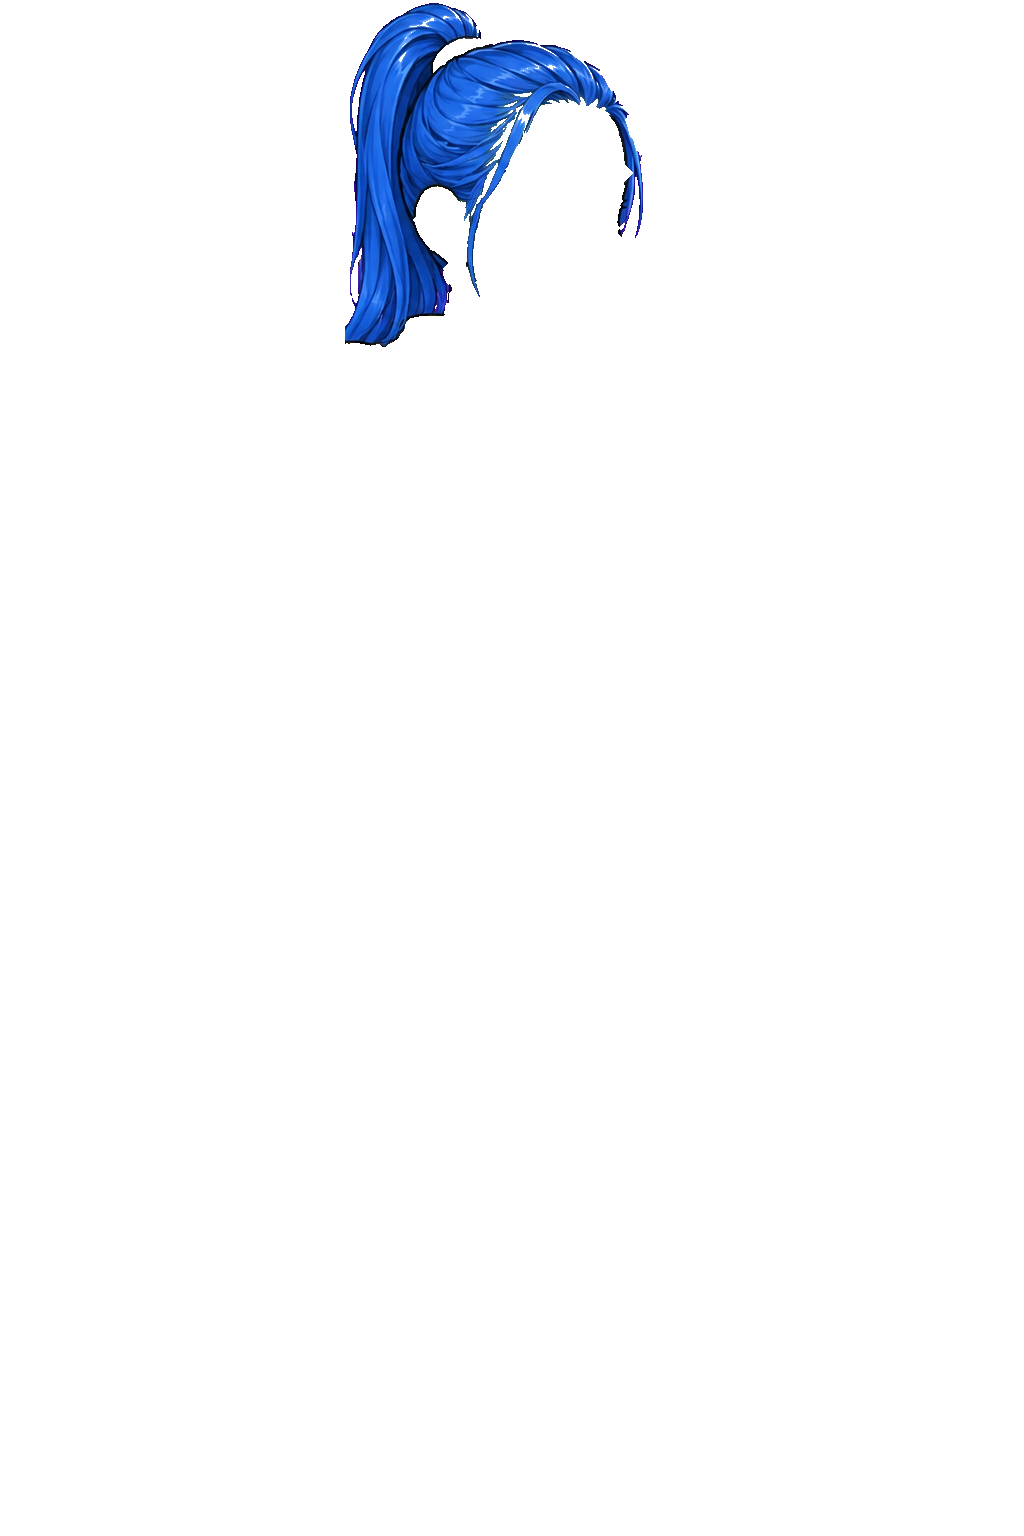
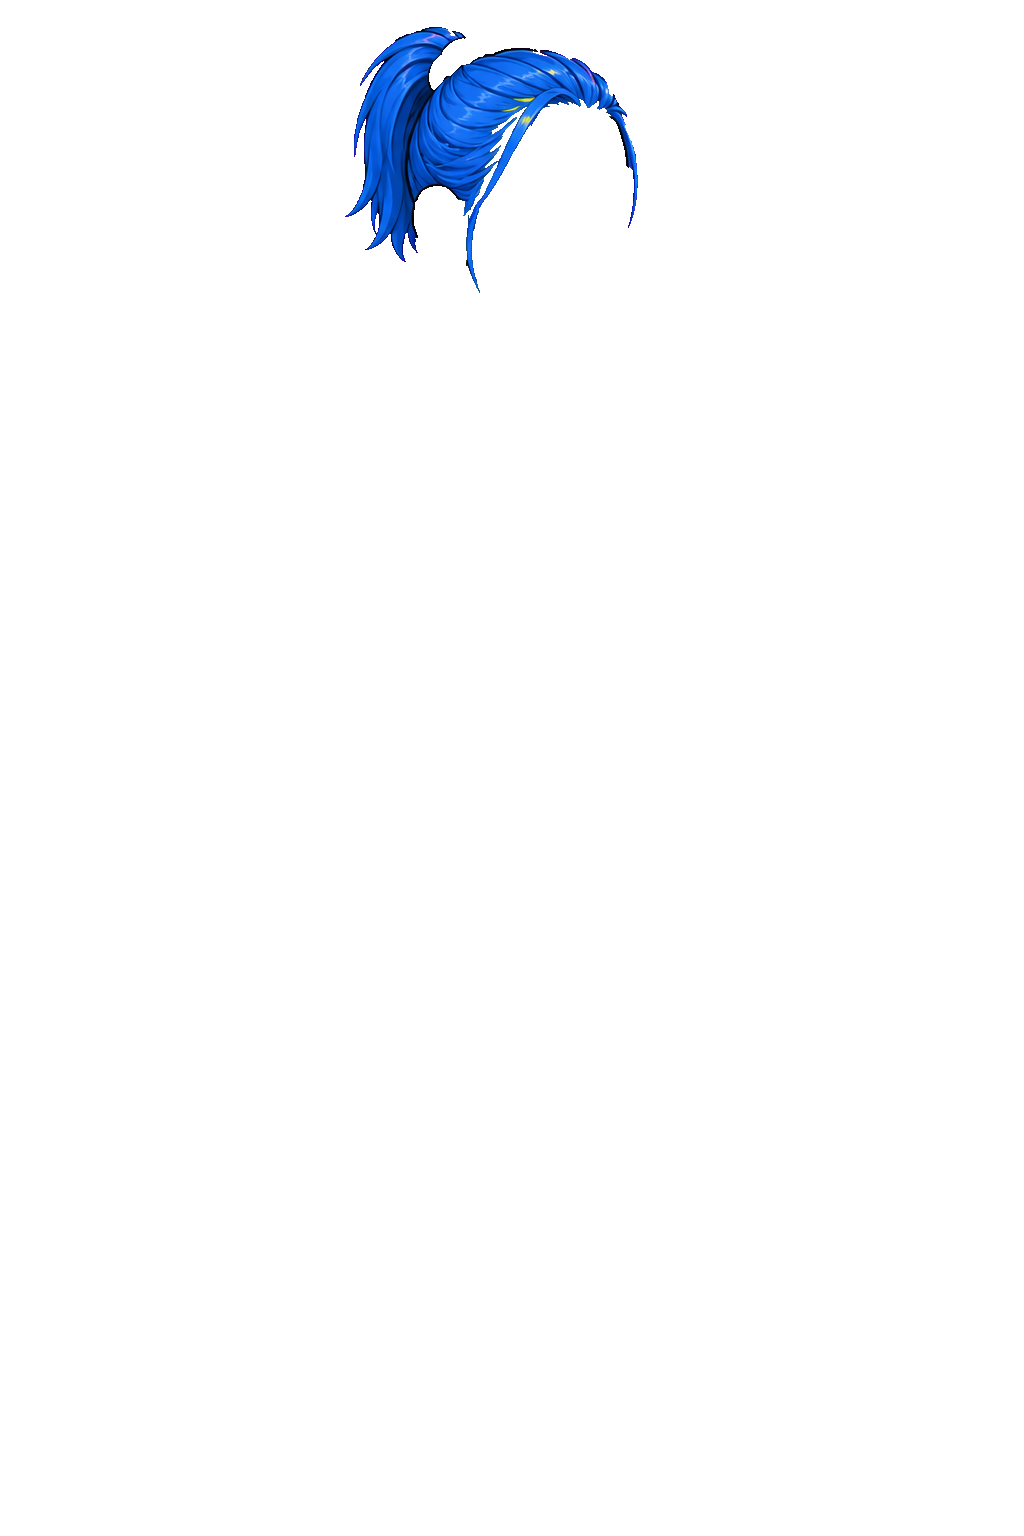
Tied ponytail replaces the high ponytail; walk renderer draws hair ties
f3 redone from a single full-size edit with an orange tie, shortened clear of
the shoulders. New tools/extract_single_hair.py extracts one full-size hair
edit (face-outline registration, blue hair, orange tie -> leather layer).
animation/charlib.js never drew tie layers, so tied updos showed a hole in
the walk and caravan; it now draws them like the character builder.

Claude-Session: https://claude.ai/code/session_01HkwWBTfXDpyz4Z2jcF2dJD

Changed region(s): [[0.3438, 0.0, 0.625, 0.25]]

diff --git a/animation/charlib.js b/animation/charlib.js
@@ -16,7 +16,7 @@ export async function loadManifest() {
   const parts = [...M.faces.flatMap(f => [f.part, f.brows, f.scar]),
     ...M.bodies.flatMap(b => [b.part, b.back, ...Object.values((b.anim && b.anim.pieces) || {}),
       ...Object.values(b.rig || {})]),
-    ...Object.values(M.ears).map(e => e.part), ...M.hairs.map(h => h.part), ...(M.beards || []).map(b => b.part)]
+    ...Object.values(M.ears).map(e => e.part), ...M.hairs.flatMap(h => [h.part, h.ties]), ...(M.beards || []).map(b => b.part)]
     .filter(Boolean);
   await Promise.all(parts.flatMap(p => [p.file, p.skin_mask]).filter(Boolean)
     .map(f => loadImage(f + '?v=' + M.version)));
@@ -100,6 +100,7 @@ export function buildCharacter(M, r) {
   if (face.brows) add('head', face.brows, gradient(M, face.brows.file, face.brows.lum, r.hairCol));
   const hair = byId(M.hairs, r.hair);
   if (hair) add('hair', hair.part, gradient(M, hair.part.file, hair.lum, r.hairCol), ...fitd(hair.ref_skull));
+  if (hair && hair.ties) add('hair', hair.ties, M._img(hair.ties.file), ...fitd(hair.ref_skull));   // ties keep their own colour
   const beard = face.template === 'm' && byId(M.beards || [], r.beard);
   if (beard) add('beard', beard.part, gradient(M, beard.part.file, beard.lum, r.hairCol), ...fitd(beard.ref_skull));
   if (race.ears && !face.races) { const e = M.ears[race.ears]; add('ears', e.part, skinned(M, e.part, skin), ...fitd(e.ref_skull)); }

diff --git a/tools/extract_single_hair.py b/tools/extract_single_hair.py
@@ -1,0 +1,90 @@
+"""One full-size hair edit (not a sheet) -> art/parts/hair/hair_<name>.png (+ _ties.png).
+
+The edit is a ChatGPT edit of the female/male base: blue hair, orange key for ties. The head
+is re-registered against the base by its face outline, then the same masks as sheet_align.
+Usage: python tools/extract_single_hair.py f3 f art/incoming/hair_single/f3.png
+"""
+import sys
+from pathlib import Path
+
+import numpy as np
+from PIL import Image
+from scipy import ndimage
+
+sys.path.insert(0, str(Path(__file__).resolve().parent))
+from extract_hair import defringe  # noqa: E402
+from recolor import gradient_map  # noqa: E402
+from sheet_align import face_edges  # noqa: E402
+from skin import _hsv  # noqa: E402
+
+ROOT = Path(__file__).resolve().parent.parent
+BASES = {"f": "female_base", "m": "male_base"}
+
+
+def register(base, edit, pad=30):
+    so = face_edges(base)
+    so[:150] = False
+    so[330:] = False
+    ys, xs = np.where(so)
+    d = ndimage.distance_transform_edt(~face_edges(edit))
+    best = None
+    for dx in range(-pad, pad + 1):
+        for dy in range(-pad, pad + 1):
+            err = np.clip(d[np.clip(ys + dy, 0, d.shape[0] - 1), np.clip(xs + dx, 0, d.shape[1] - 1)], 0, 12).mean()
+            if best is None or err < best[0]:
+                best = (err, dx, dy)
+    return best[1], best[2], best[0]
+
+
+def main(name, tpl, edited):
+    base = np.asarray(Image.open(ROOT / "art/template" / f"{BASES[tpl]}.png").convert("RGB"))
+    e = np.asarray(Image.open(edited).convert("RGB"))
+    dx, dy, err = register(base.astype(int), e.astype(int))
+    e = np.roll(np.roll(e, -dy, 0), -dx, 1)                   # edit back onto the base canvas
+    a = np.dstack([e, np.full(e.shape[:2], 255, np.uint8)])
+    h, s, v = _hsv(a)
+    bh, bs, _ = _hsv(base)
+    blue = (h >= 190) & (h <= 260) & (s > 0.62) & (v > 0.15)
+    brows = ndimage.binary_dilation((bh >= 190) & (bh <= 260) & (bs > 0.35), iterations=4)
+    m = blue & ~brows
+    m[600:] = False                                           # hair never reaches the robe
+    m |= ndimage.binary_dilation(m, iterations=2) & (v < 0.35)
+    lab, n = ndimage.label(m)
+    if n:
+        sz = ndimage.sum(m, lab, range(1, n + 1))
+        m = np.isin(lab, 1 + np.flatnonzero(sz >= max(300, 0.01 * sz.max())))
+    holes = ndimage.binary_fill_holes(m) & ~m                 # highlight specks inside the hair
+    mag = (a[..., 0] > 200) & (a[..., 1] < 90) & (a[..., 2] > 200)
+    hl, hn = ndimage.label(holes)
+    if hn:
+        hs = ndimage.sum(holes, hl, range(1, hn + 1))
+        hm = ndimage.maximum(mag, hl, range(1, hn + 1))
+        m |= np.isin(hl, 1 + np.flatnonzero((hs < 400) & ~hm.astype(bool)))
+    orange = (h >= 15) & (h <= 40) & (s > 0.6) & (v > 0.6)
+    ol, on = ndimage.label(orange)
+    keep = []
+    for i in range(1, on + 1):                                # a tie is mostly wrapped in hair
+        comp = ol == i
+        ring = ndimage.binary_dilation(comp, iterations=4) & ~comp
+        if comp.sum() >= 40 and (m & ring).sum() / max(ring.sum(), 1) > 0.35:
+            keep.append(i)
+    tie = np.isin(ol, keep)
+    if tie.any():
+        tie |= ndimage.binary_dilation(tie, iterations=2) & (v < 0.35)
+        m &= ~tie
+    hair = a.copy()
+    hair[~m, 3] = 0
+    out = ROOT / "art/parts/hair"
+    Image.fromarray(defringe(hair)).save(out / f"hair_{name}.png")
+    tpath = out / f"hair_{name}_ties.png"
+    if tie.any():
+        t = a.copy()
+        t[~tie, 3] = 0
+        gradient_map(Image.fromarray(t), [(28, 16, 8), (92, 56, 30), (150, 98, 54), (214, 168, 110)]).save(tpath)
+    elif tpath.exists():
+        tpath.unlink()
+    print(f"{name}: shift ({dx},{dy}) fit err {err:.1f}px, hair {m.sum()} px, tie {tie.sum()} px")
+
+
+if __name__ == "__main__":
+    main(*sys.argv[1:4])

diff --git a/tools/build_preview.py b/tools/build_preview.py
@@ -213,7 +213,7 @@ HAIRS = [  # (id, label, fits, reference image the hair was drawn on[, x nudge])
     # replaced by m_topknot_soft: ("topknot02", "Top-knot (shaved)", ["m"], "aldric_bald_limekey"),
     # women: all drawn on female_base (batch sheets); older styles on the previous Rowan retired
     ("f2", "Bob", ["f"], "female_base"),
-    ("f3", "High ponytail", ["f"], "female_base"),
+    ("f3", "Tied ponytail", ["f"], "female_base"),
     # trimmed (duplicate of High bun): ("f5", "Bun", ["f"], "female_base"),
     # trimmed (duplicate of Tousled crop): ("f7", "Pixie", ["f"], "female_base"),
     # pulled (touches shoulders): ("f9", "Shoulder-length", ["f"], "female_base"),

diff --git a/docs/HANDOFF.md b/docs/HANDOFF.md
@@ -39,7 +39,7 @@ Unity is the eventual engine; everything so far is a browser prototype (Canvas 2
 
 ## Open issues / next steps (user's latest direction)
 1. ~~Female near foot points at viewer~~ **Done**: boots-only ChatGPT edits pasted onto the originals below y=1210 (rest of image untouched; armless versions unchanged). Walk rig now keeps each toe on its own boot (outline-walled growth below the boot shafts); `cleric_f` has a hand `foot_split` line (boots painted touching) and a pinned `shift` (auto-registration drifted). Known nit: hairline sliver / heel notch on cleric_f far boot; fix = regenerate cleric boots with a magenta gap, then drop `foot_split`.
-2. Female high-ponytail band could be redone with an orange tie.
+2. ~~High-ponytail band~~ **Done**: f3 is now "Tied ponytail" (single full-size edit, `art/incoming/hair_single/f3.png`, extracted with `tools/extract_single_hair.py` — blue hair + orange tie, same rules as the sheets). Shorter, clears the shoulders. Its `_elf`/`_goblin` race versions are stale (races parked). Walk renderer (`animation/charlib.js`) now draws tie layers too (it never did).
 3. Optional: men's earless heads (only matters if races return).
 4. Later: Unity port (recipe + layered renderer using these exact assets/manifest).
 
